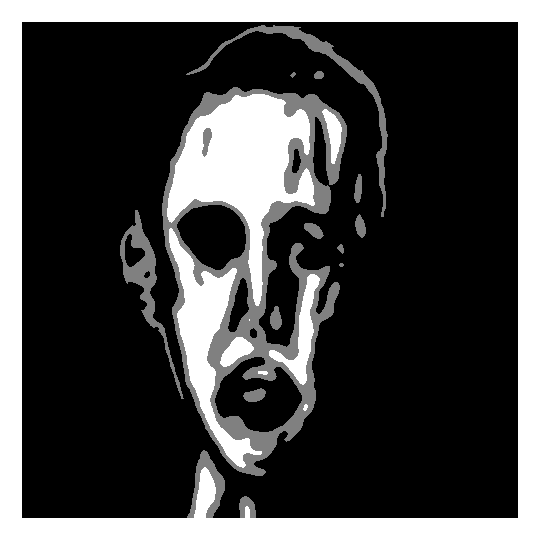
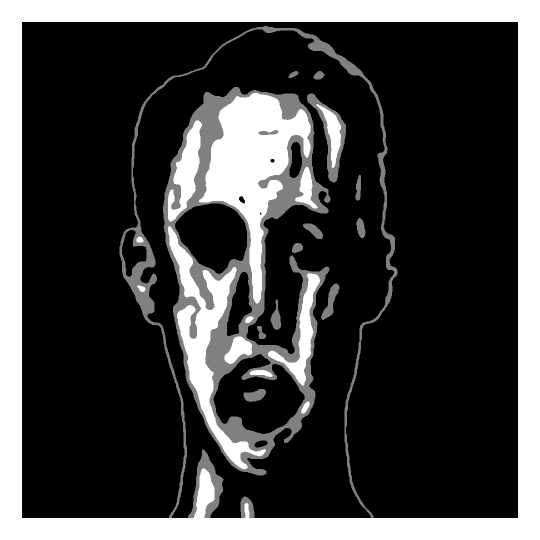
Cut the six Basswood County faces into their own 540px boxes, smooth-edged
Goes back to the look of the first version of the six faces (thin outlines,
fine detail) and renders each face on its own 540x540 profile, the same size
and frame as the doc's Mel and John. Each tone's shape is drawn at twice the
size and brought down, so the edges are smooth instead of stepped.

Claude-Session: https://claude.ai/code/session_01H1XKNjSv2s2JZKqFuBWatk

diff --git a/tools/basswood_profiles.py b/tools/basswood_profiles.py
@@ -1,119 +1,107 @@
-"""Six faces from Basswood County, as SlashCo doc-style profiles: the figure lit white on
-black, in flat black, grey and white, in a white frame, like the doc's Mel, John, Jim and Mysti.
+"""Six faces from Basswood County as SlashCo doc-style profiles, each in its own 540x540 box like
+the doc's Mel and John: the figure lit white on black, in flat black, grey and white, in a 22px
+white frame.
 
     pip install numpy opencv-python-headless pillow
     python3 tools/basswood_profiles.py
 
-reads the sheet of six ink drawings (assets/source/basswood_faces.jpg) and writes
-assets/profiles/basswood_1.png .. basswood_6.png: six separate 540x540 profiles, one face each, in
-reading order. Give a sheet and a folder to read and write others.
+cuts each face from the sheet of six ink drawings (assets/source/basswood_faces.jpg) and writes
+assets/profiles/basswood_1.png .. basswood_6.png, in reading order.
 """
 import os
-import sys
 
 import cv2
 import numpy as np
 from PIL import Image
 
+ROOT = os.path.join(os.path.dirname(os.path.abspath(__file__)), '..')
+SOURCE = os.path.join(ROOT, 'assets', 'source')
+OUT = os.path.join(ROOT, 'assets', 'profiles')
+
+SIZE, FRAME = 540, 22  # a 22px white frame round a black square, like the doc's Mel and John
+INNER = SIZE - 2 * FRAME
+TONES = (0, 128, 255)
+
 # The six drawings on the sheet (546x366; left, top, right, bottom), in reading order.
 BOXES = [(43, 26, 184, 205), (202, 28, 341, 207), (357, 26, 507, 207), (43, 211, 188, 366), (203, 212, 343, 366), (359, 211, 505, 366)]
 INSET = 3  # px inside each box, clear of its border
-UP = 4  # work at 4x the sheet's resolution, so the posterized shapes come out smooth
-SIZE, FRAME = 540, 22  # like the doc's 540px profiles: a 22px white frame round a black square
-TONES = (0, 128, 255)
-CUTS = (0.40, 0.75)  # of the paper's brightness: below the first is black, above the second white
+UP = 4  # cut them out at 4x the sheet's resolution
 
 
-def figure_mask(g, paper):
-    """The figure, not the paper: the ink lines, with their gaps closed, wall him off from the
-    paper, which floods in from the top and sides (not the bottom, where he runs off the
-    drawing). Whatever the flood can't reach is him, and each row of him is filled across."""
-    # a margin of paper round the top and sides, so the flood gets in above a head that
-    # touches the top of the drawing
-    m = 40
-    gp = cv2.copyMakeBorder(g, m, 0, m, m, cv2.BORDER_REPLICATE)
-    gb = cv2.GaussianBlur(gp, (0, 0), UP * 0.6).astype(np.int16)
-    ink = gb < paper - 18
-    # The top of his head can be drawn very faintly, so look harder up there, against the
-    # paper just above him (it's lit unevenly; where his hair runs up into the top of the
-    # drawing, that's darker, and nothing more is found there).
-    above = cv2.GaussianBlur(np.median(gb[:m + 6 * UP], axis=0).astype(np.float32)[None, :], (0, 0), 8)
-    top = m + int(g.shape[0] * 0.25)
-    ink[:top] |= gb[:top] < above - 7
-    walls = cv2.morphologyEx(ink.astype(np.uint8), cv2.MORPH_CLOSE, cv2.getStructuringElement(cv2.MORPH_ELLIPSE, (31, 31)))
-    open_ = (walls == 0).astype(np.uint8)
-    n, lab = cv2.connectedComponents(open_, connectivity=4)
-    outside = (lab == lab[0, 0]) & (open_ > 0)
-    outside = outside[m:, m:-m]
-    n, lab, st, _ = cv2.connectedComponentsWithStats((~outside).astype(np.uint8), connectivity=8)
-    fig = lab == 1 + np.argmax(st[1:, cv2.CC_STAT_AREA])
-    # Low down, his neck and shoulders only widen gradually: anything that jumps out sideways
-    # is a pocket of paper trapped against the bottom of the drawing.
-    h = fig.shape[0]
-    left = right = None
-    for y in range(h):
-        xs = np.flatnonzero(fig[y])
-        if not len(xs):
-            continue
-        if y > h * 0.7 and left is not None:
-            xs = xs[(xs >= left - 4) & (xs <= right + 4)]
-            fig[y] = False
-            if not len(xs):
-                continue
-        left, right = xs[0], xs[-1]
-        fig[y, left:right + 1] = True
-    # Knock off the spikes and slivers where the closing caught a corner of paper, and pull in
-    # a little off the paper round his outline.
-    fig = cv2.morphologyEx(fig.astype(np.uint8), cv2.MORPH_OPEN, cv2.getStructuringElement(cv2.MORPH_ELLIPSE, (19, 19)))
-    return cv2.erode(fig, cv2.getStructuringElement(cv2.MORPH_ELLIPSE, (7, 7))) > 0
+def smooth_tones(t, w, h, soften):
+    """Redraw a black/grey/white picture `t` (any size) at w x h with smooth edges: each tone's
+    shape is softened (by `soften` of t's pixels), enlarged to twice the size wanted and cut
+    clean there, then brought down, so its edges come out smooth instead of in steps."""
+    out = np.zeros((2 * h, 2 * w), np.float32)
+    for lo, hi in ((TONES[0], TONES[1]), (TONES[1], TONES[2])):
+        shape = (t >= (lo + hi) / 2).astype(np.float32)
+        if soften:
+            shape = cv2.GaussianBlur(shape, (0, 0), soften)
+        shape = cv2.resize(shape, (2 * w, 2 * h), interpolation=cv2.INTER_CUBIC) >= 0.5
+        out[shape] = hi
+    return cv2.resize(out, (w, h), interpolation=cv2.INTER_AREA)
 
 
-def profile(sheet, box):
-    l, t, r, b = box
-    crop = sheet[t + INSET:b - INSET, l + INSET:r - INSET]
-    paper = float(np.median(crop[:15, :15]))
-    g = cv2.resize(crop, None, fx=UP, fy=UP, interpolation=cv2.INTER_CUBIC)
-    mask = figure_mask(g, paper)
-    # blurred enough that the cross-hatching runs together into the grey
-    lit = cv2.GaussianBlur(g, (0, 0), UP * 1.0).astype(np.float32) / paper
-    q = np.full(g.shape, TONES[0], np.uint8)
-    q[lit >= CUTS[0]] = TONES[1]
-    q[lit >= CUTS[1]] = TONES[2]
-    q[~mask] = TONES[0]
-    q = cv2.medianBlur(q, 7)
-    # Small flecks of light along his edge are paper caught in a corner of his outline, not him:
-    # ones lying mostly along the edge, and white ones with no line between them and the dark.
-    inward = cv2.distanceTransform(mask.astype(np.uint8), cv2.DIST_L2, 5)
-    for tone in TONES[2], TONES[1]:
-        n, lab, st, _ = cv2.connectedComponentsWithStats((q == tone).astype(np.uint8), connectivity=4)
-        for i in range(1, n):
-            area = st[i, cv2.CC_STAT_AREA]
-            if area > q.size * 0.015:
-                continue
-            blob = lab == i
-            if area < q.size * 0.004 and (inward[blob] < 6 * UP).mean() > 0.5 or tone == TONES[2] and inward[blob].min() < 2 * UP:
-                q[blob] = TONES[0]
-    # his shoulders fade into the dark where the drawing cuts them off at the sides
-    h, w = q.shape
-    fade = np.clip(np.minimum(np.arange(w), np.arange(w)[::-1]) / (w * 0.06), 0, 1)
-    inner = SIZE - 2 * FRAME
-    pw = int(round(w * inner / h))
-    p = cv2.resize(q.astype(np.float32) * fade[None, :], (pw, inner), interpolation=cv2.INTER_AREA)
+def framed(inner):
     out = np.full((SIZE, SIZE), 255, np.uint8)
     out[FRAME:SIZE - FRAME, FRAME:SIZE - FRAME] = 0
-    x0 = FRAME + (inner - pw) // 2
-    # back onto the three tones after the resize
-    out[FRAME:FRAME + inner, x0:x0 + pw] = np.where(p >= 192, TONES[2], np.where(p >= 64, TONES[1], TONES[0]))
+    x0 = FRAME + (INNER - inner.shape[1]) // 2
+    out[FRAME:FRAME + INNER, x0:x0 + inner.shape[1]] = np.clip(np.round(inner), 0, 255).astype(np.uint8)
     return out
 
 
+def figure_mask(g, light=150, seal=7):
+    """The figure, not the paper: flood the paper in from the top and sides (not the bottom,
+    where the figure runs off the drawing), with the ink lines (thickened a little to seal
+    gaps) as walls. Whatever the flood can't reach is him."""
+    ink = (g < light).astype(np.uint8)
+    walls = cv2.dilate(ink, cv2.getStructuringElement(cv2.MORPH_ELLIPSE, (seal, seal)))
+    paper = (walls == 0).astype(np.uint8)
+    n, lab = cv2.connectedComponents(paper, connectivity=4)
+    edge = np.zeros_like(paper, bool)
+    edge[0, :] = edge[:, 0] = edge[:, -1] = True
+    outside = np.isin(lab, np.unique(lab[edge & (paper > 0)])) & (paper > 0)
+    # the walls next to the outside paper belong to the paper too (they were only padding)
+    grow = cv2.dilate(outside.astype(np.uint8), cv2.getStructuringElement(cv2.MORPH_ELLIPSE, (seal + 2, seal + 2))) > 0
+    outside = grow & (ink == 0) | outside
+    fig = (~outside).astype(np.uint8)
+    # keep the big piece(s)
+    n, lab, st, _ = cv2.connectedComponentsWithStats(fig, connectivity=8)
+    keep = np.zeros_like(fig)
+    for i in range(1, n):
+        if st[i, cv2.CC_STAT_AREA] > fig.size * 0.01:
+            keep[lab == i] = 1
+    return keep > 0
+
+
+def posterize(g, mask, cuts=(95, 160)):
+    out = np.full(g.shape, TONES[0], np.uint8)
+    out[(g >= cuts[0]) & mask] = TONES[1]
+    out[(g >= cuts[1]) & mask] = TONES[2]
+    # drop specks smaller than a few pixels in each tone
+    for t in (TONES[1], TONES[2]):
+        m = (out == t).astype(np.uint8)
+        n, lab, st, _ = cv2.connectedComponentsWithStats(m, connectivity=4)
+        small = np.isin(lab, [i for i in range(1, n) if st[i, cv2.CC_STAT_AREA] < 12 * UP])
+        out[small] = TONES[0] if t == TONES[1] else TONES[1]
+    return out
+
+
+def basswood(sheet, box):
+    l, t, r, b = box
+    crop = sheet[t + INSET:b - INSET, l + INSET:r - INSET]
+    g = cv2.resize(crop, None, fx=UP, fy=UP, interpolation=cv2.INTER_CUBIC)
+    g = cv2.GaussianBlur(g, (0, 0), UP * 0.45)
+    q = posterize(g, figure_mask(g)).astype(np.float32)
+    # his shoulders fade into the dark where the drawing cuts them off at the sides
+    h, w = q.shape
+    q *= np.clip(np.minimum(np.arange(w), np.arange(w)[::-1]) / (w * 0.06), 0, 1)[None, :]
+    return framed(smooth_tones(q, int(round(w * INNER / h)), INNER, UP * 0.25))
+
+
 if __name__ == '__main__':
-    root = os.path.join(os.path.dirname(os.path.abspath(__file__)), '..')
-    src = sys.argv[1] if len(sys.argv) > 1 else os.path.join(root, 'assets', 'source', 'basswood_faces.jpg')
-    outdir = sys.argv[2] if len(sys.argv) > 2 else os.path.join(root, 'assets', 'profiles')
-    os.makedirs(outdir, exist_ok=True)
-    sheet = np.asarray(Image.open(src).convert('L'))
+    os.makedirs(OUT, exist_ok=True)
+    sheet = np.asarray(Image.open(os.path.join(SOURCE, 'basswood_faces.jpg')).convert('L'))
     for i, box in enumerate(BOXES):
-        out = profile(sheet, box)
-        Image.fromarray(out).save(os.path.join(outdir, f'basswood_{i + 1}.png'))
-        print(f'wrote basswood_{i + 1}.png')
+        Image.fromarray(basswood(sheet, box)).save(os.path.join(OUT, f'basswood_{i + 1}.png'))
+        print(f'wrote profiles/basswood_{i + 1}.png')

diff --git a/README.md b/README.md
@@ -344,9 +344,9 @@ means not hitting him while he's curled up.
 - **Type:** Russo One for the big words (FIGHT, ATTACK, SLASHCO), the closest free match to the SLASHCO logo;
   Silkscreen for the bracketed HUD text, like the game's; VT323 for SLASHERBOY's screen. All three are bundled.
 - **Basswood County profiles** (`assets/profiles/basswood_1.png` to `basswood_6.png`): six faces from Basswood
-  County's ink drawings, each made into its own profile like the doc's Mel, John, Jim and Mysti (lit white on black
-  in flat black, grey and white, in a white frame). They aren't in the game yet. `python3 tools/basswood_profiles.py`
-  makes them from `assets/source/basswood_faces.jpg`.
+  County's ink drawings, each cut into its own 540x540 profile like the doc's Mel and John (lit white on black in
+  flat black, grey and white, with smooth edges, in a 22px white frame). They aren't in the game yet.
+  `python3 tools/basswood_profiles.py` makes them from `assets/source/basswood_faces.jpg`.
 - To rebuild the portraits and sprites after changing a source image: `pip install numpy opencv-python-headless
   pillow`, then `python3 tools/make_images.py`. Dolphin Man's model is rendered first, with Playwright:
   `node tools/dolphin/render.js` (his skeleton's poses are in `tools/dolphin/poses.js`).
